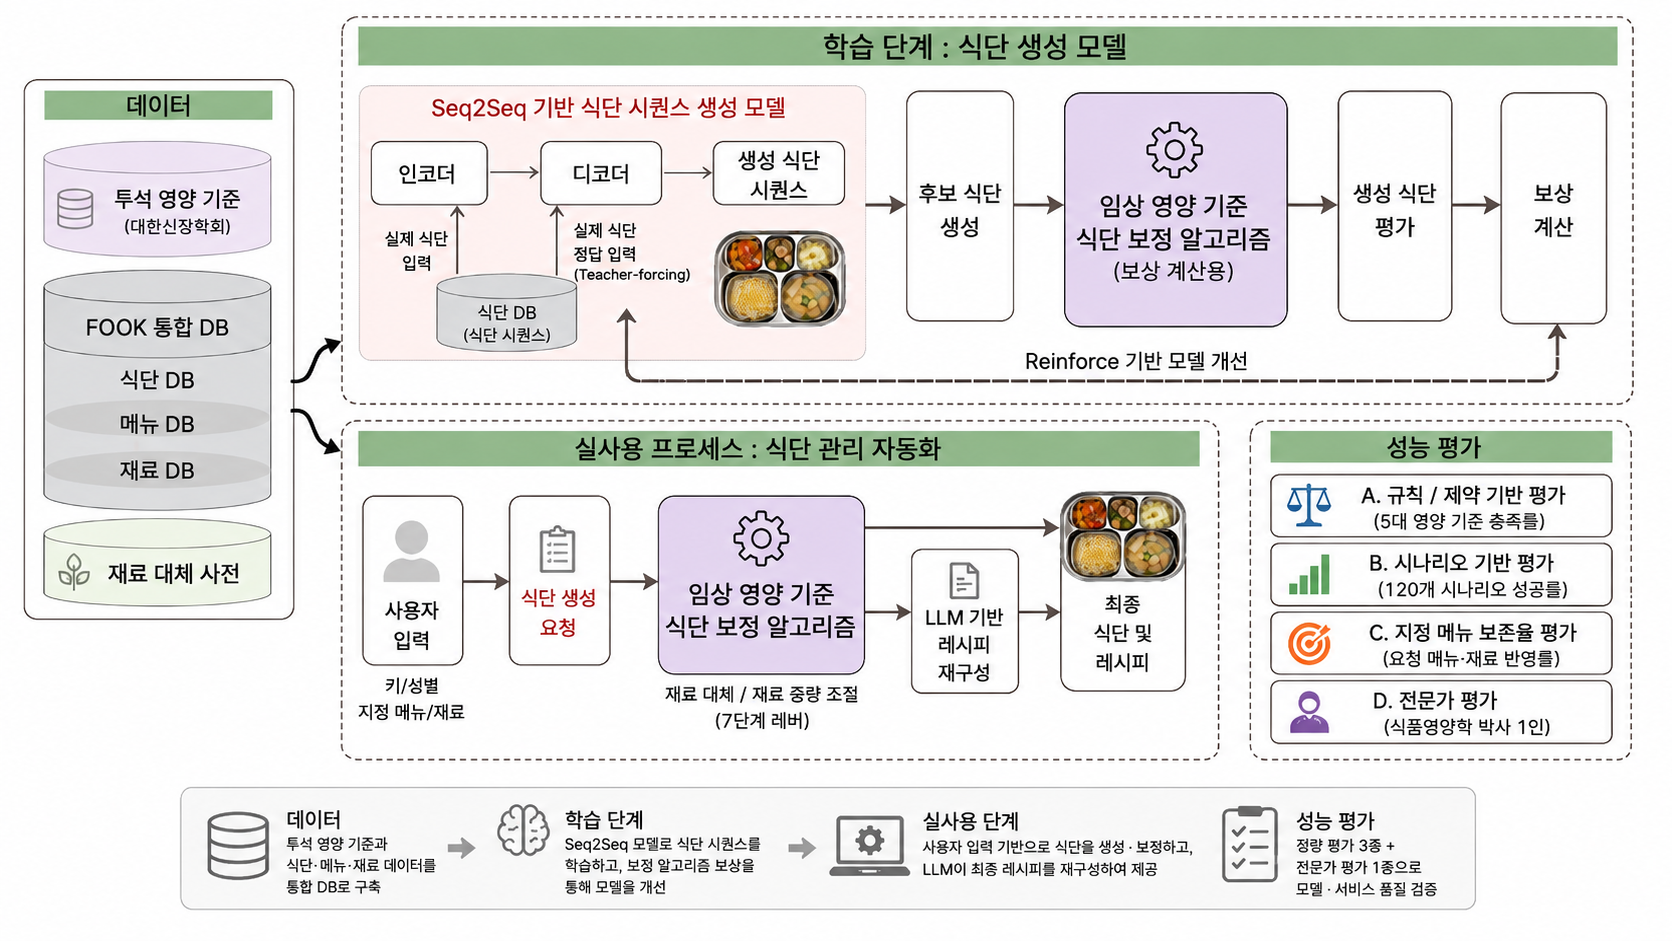
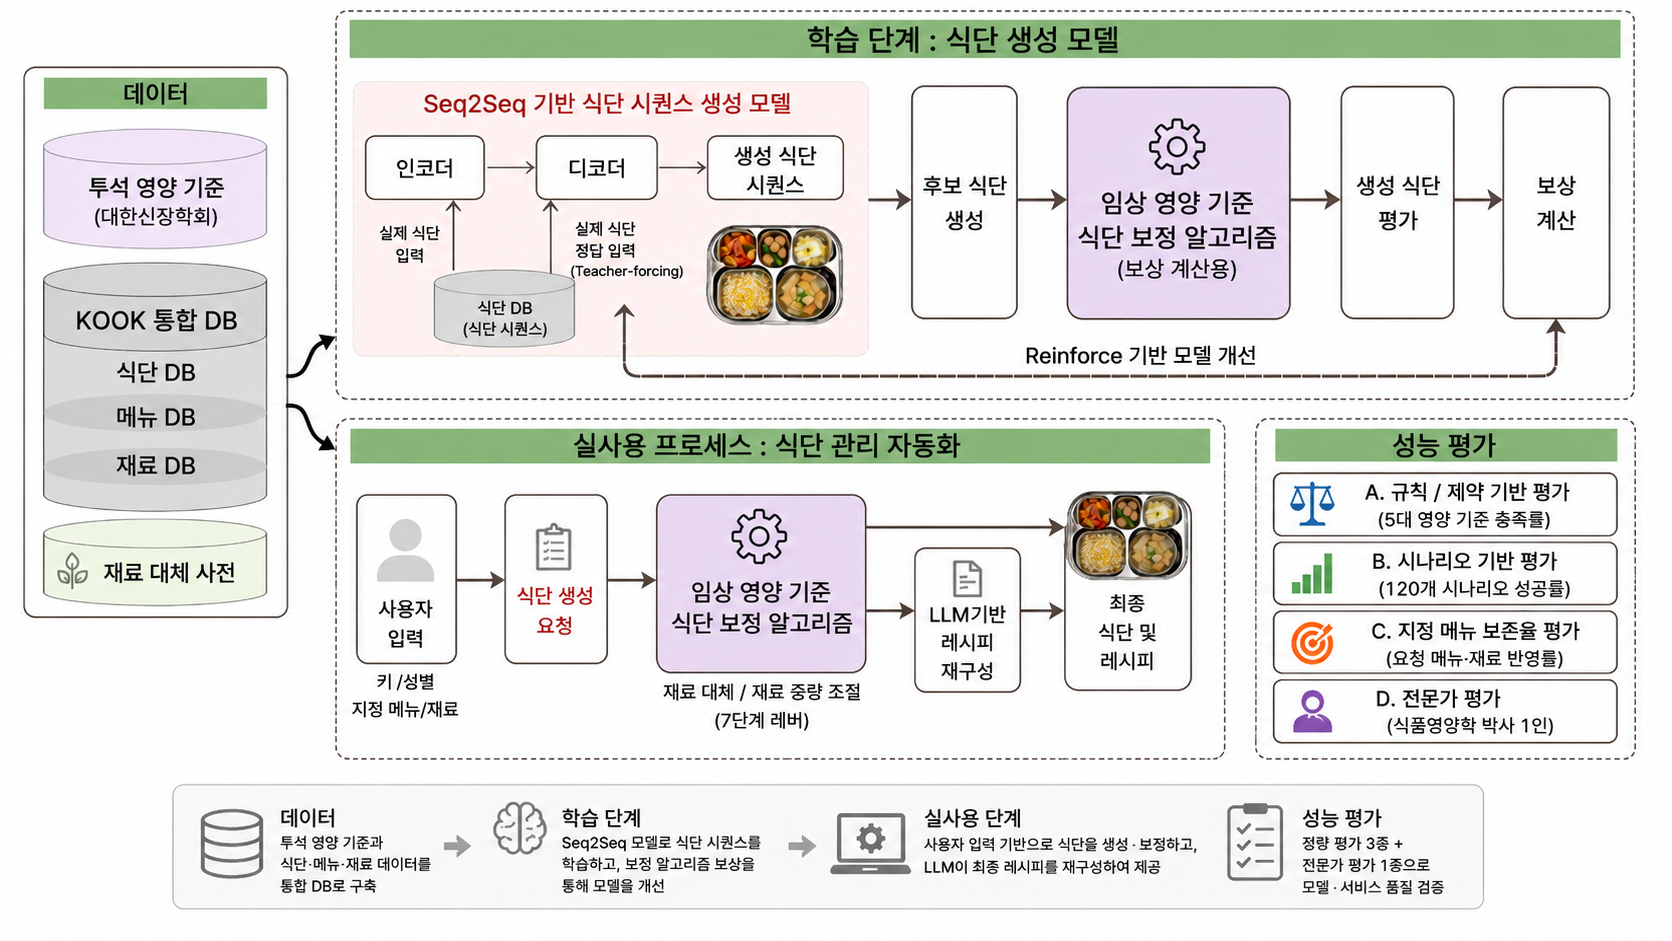
데이터 구축·전처리 섹션을 앞으로 이동, 데이터 구조 다이어그램 추가
- 담당 역할에서 "데이터 구축"을 언급한 직후 바로 실제 산출물(전처리 표 +
  KOOK 통합 DB 계층 구조 다이어그램)을 보여주도록 섹션 순서 변경
  (담당 역할 → 데이터 구축·전처리 → 주요 기능 → ...)
- 기존 위치(AI 알고리즘 이후)의 데이터 구축 섹션은 제거, 중복 없음
- 전처리 과정 설명 보강: 식재료명 표준화 → 결측·오류 정리 → 영양성분
  매핑 → 메뉴·재료 구조화
- AI 아키텍처 다이어그램 업데이트본으로 교체(KOOK 통합 DB 명칭 통일 등)

Changed region(s): [[0.0, 0.0, 0.9952, 0.8013], [0.0933, 0.8321, 0.8708, 0.9554], [0.8397, 0.3082, 0.8708, 0.339]]

diff --git a/README.md b/README.md
@@ -90,6 +90,35 @@
 
 ---
 
+## 🗂 데이터 구축 · 전처리
+
+서로 구조가 다른 **대표식단·국가표준식품성분표·군 조리지침서** 데이터를
+하나의 식단 생성·영양 검증 파이프라인에서 사용할 수 있도록 통합했습니다.
+
+단순 병합이 아니라
+**식재료명 표준화 → 결측·오류 정리 → 영양성분 매핑 → 메뉴·재료 구조화**를 거쳐,
+식단–메뉴–재료 단위를 연결하고 각 재료의 영양성분과 투석 영양 기준을 함께 참조할 수 있는
+**KOOK 통합 DB**를 구축했습니다.
+
+| 데이터 | 원본 | 전처리 결과 / 활용 |
+|:---|:---:|:---|
+| 대표식단 (식생활안전관리원) | 32,182행 | 표준 메뉴 **824종** · 식단 생성 모델 학습 |
+| 국가표준식품성분표 (농촌진흥청) | 3,270행 | 표준 재료 **3,391종** · 영양 계산·보정 |
+| 군표준조리지침서 (육군본부) | PDF 88p | 추가 메뉴 **260종** · 메뉴 다양성 보완 |
+
+<p align="center">
+  <img src="assets/kook_data.png" width="900">
+</p>
+
+<p align="center">
+  <sub>
+    식단 → 메뉴 → 재료의 계층 구조로 데이터를 모델링하고,
+    메뉴별 재료·중량과 재료별 5대 영양소, 투석 영양 기준을 연결했습니다.
+  </sub>
+</p>
+
+---
+
 ## ✨ 주요 기능
 
 | 기능 | 설명 |
@@ -292,19 +321,6 @@ KOOK은 학습 단계와 실제 서비스 단계를 분리해 설계했습니다
 사례를 발견해서, 최종 결론 문자열을 코드가 답변 끝에 못박는 이중 안전장치를 넣었습니다.
 
 </details>
-
----
-
-## 🗃 데이터 구축
-
-| 데이터 | 원본 | 결과 |
-|:---|:---:|:---|
-| 대표식단 (식생활안전관리원 사회복지급식관리지원센터) | 32,182행 | 표준 메뉴 **824종** |
-| 국가표준식품성분표 10.4판 (농촌진흥청) | 3,270행 | 표준 재료 **3,391종** |
-| 군표준조리지침서 (육군본부, PDF 88p) | — | 추가 메뉴 **260종** |
-
-세 출처 모두 형식이 달라(엑셀 시트, 성분표, PDF) 식재료명 표준화와 영양 DB 매핑을
-거쳐 하나의 통합 DB로 합쳤습니다.
 
 ---
 
